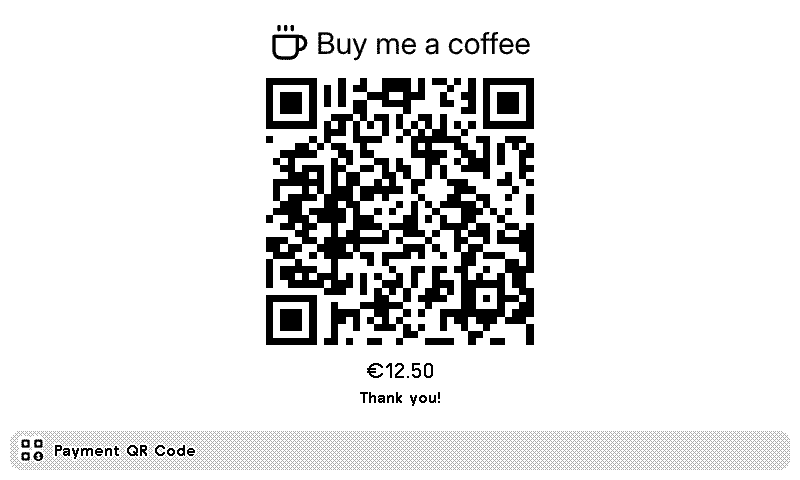
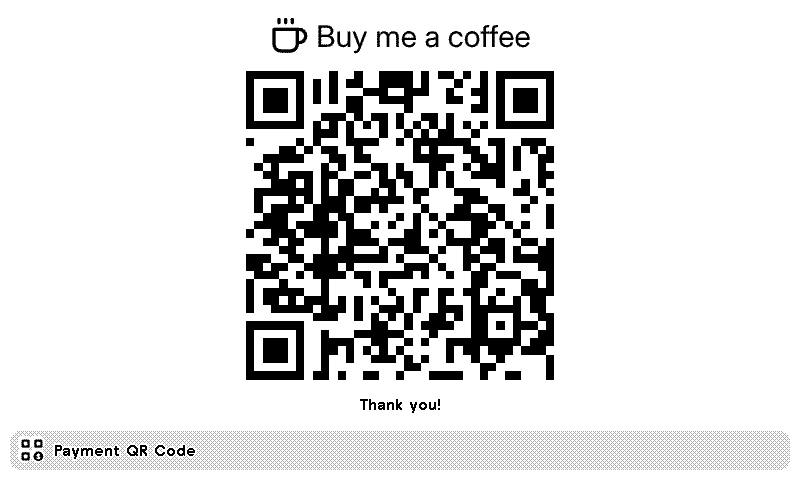
No default caption: only what is typed shows under the code
The amount line (and its English fallback in the editor preview) could not
be removed without typing text of your own. The caption is now empty unless
set; the translations and money formats it needed are gone.

Claude-Session: https://claude.ai/code/session_015KWCEBPpm133rR4g2PPK7e

Changed region(s): [[0.2812, 0.0312, 0.7188, 0.875]]

diff --git a/test/trmnl/plugin.spec.js b/test/trmnl/plugin.spec.js
@@ -156,8 +156,9 @@ for (const s of matrix({ device: ['og_plus', 'v2'], view: ['full', 'quadrant'], 
   });
 }
 test('color panel: red accent on the caption', async ({ trmnl }) => {
-  const screen = await trmnl.render({ device: 'og_bwry', fields: BASE });
-  await checkScreen(screen, { content: BASE, view: 'full', payload: JANE });
+  const content = { ...BASE, caption: '€12.50' };
+  const screen = await trmnl.render({ device: 'og_bwry', fields: content });
+  await checkScreen(screen, { content, view: 'full', payload: JANE });
   await expect(screen.locator('[data-accent^="bg--"]')).toHaveClass(/bg--red/);
 });
 test('classic fonts', async ({ trmnl }) => {
@@ -165,24 +166,24 @@ test('classic fonts', async ({ trmnl }) => {
   await checkScreen(screen, { content: BASE, view: 'full', payload: JANE });
 });
 
-// ---------------------------------------------------------------- payload and caption rules
+// ---------------------------------------------------------------- payload and caption rules (no caption unless typed)
 const PAYLOADS = [
-  ['amount open', { epc_amount: '' }, epc('Jane Doe', 'BE71096123456769', '', 'Coffee fund'), 'Any amount'],
-  ['amount zero is open', { epc_amount: '0' }, epc('Jane Doe', 'BE71096123456769', '', 'Coffee fund'), 'Any amount'],
-  ['amount comma', { epc_amount: '7,5' }, epc('Jane Doe', 'BE71096123456769', '7.50', 'Coffee fund'), '€7.50'],
-  ['amount not a number', { epc_amount: 'abc' }, epc('Jane Doe', 'BE71096123456769', '', 'Coffee fund'), 'Any amount'],
-  ['big amount', { epc_amount: '1234.5' }, epc('Jane Doe', 'BE71096123456769', '1234.50', 'Coffee fund'), '€1,234.50'],
-  ['iban cleanup', { epc_iban: 'be71 0961 2345 6769 ' }, JANE, '€12.50'],
-  ['name limit', { epc_name: 'N'.repeat(90) }, epc('N'.repeat(70), 'BE71096123456769', '12.50', 'Coffee fund'), '€12.50'],
-  ['reference limit', { epc_reference: 'R'.repeat(200) }, epc('Jane Doe', 'BE71096123456769', '12.50', 'R'.repeat(140)), '€12.50'],
+  ['amount open', { epc_amount: '' }, epc('Jane Doe', 'BE71096123456769', '', 'Coffee fund'), null],
+  ['amount zero is open', { epc_amount: '0' }, epc('Jane Doe', 'BE71096123456769', '', 'Coffee fund'), null],
+  ['amount comma', { epc_amount: '7,5' }, epc('Jane Doe', 'BE71096123456769', '7.50', 'Coffee fund'), null],
+  ['amount not a number', { epc_amount: 'abc' }, epc('Jane Doe', 'BE71096123456769', '', 'Coffee fund'), null],
+  ['big amount', { epc_amount: '1234.5' }, epc('Jane Doe', 'BE71096123456769', '1234.50', 'Coffee fund'), null],
+  ['iban cleanup', { epc_iban: 'be71 0961 2345 6769 ' }, JANE, null],
+  ['name limit', { epc_name: 'N'.repeat(90) }, epc('N'.repeat(70), 'BE71096123456769', '12.50', 'Coffee fund'), null],
+  ['reference limit', { epc_reference: 'R'.repeat(200) }, epc('Jane Doe', 'BE71096123456769', '12.50', 'R'.repeat(140)), null],
   ['own caption', { caption: 'Scan to pay' }, JANE, 'Scan to pay'],
   ['link', { payment_type: 'text', qr_text: ' https://paypal.me/jane/5 ' }, 'https://paypal.me/jane/5', null],
   ['bancontact fixed amount', { payment_type: 'bancontact', bc_profile_id: '5bb37284e35e2b29e363df22', epc_amount: '2.40', epc_reference: 'Espresso', title: 'Northbean Coffee' },
-    'https://pay.bancontact.net/t/1/5bb37284e35e2b29e363df22?D=Northbean%20Coffee&A=240&R=Espresso', 'Pay €2.40 with Bancontact'],
+    'https://pay.bancontact.net/t/1/5bb37284e35e2b29e363df22?D=Northbean%20Coffee&A=240&R=Espresso', null],
   ['bancontact open amount', { payment_type: 'bancontact', bc_profile_id: '5bb37284e35e2b29e363df22', epc_amount: '', epc_reference: '', title: '' },
-    'https://pay.bancontact.net/t/1/5bb37284e35e2b29e363df22', 'Pay with Bancontact'],
+    'https://pay.bancontact.net/t/1/5bb37284e35e2b29e363df22', null],
   ['bancontact encodes and caps D and R', { payment_type: 'bancontact', bc_profile_id: 'abc123', epc_amount: '0', epc_reference: 'Invoice #12 & co', title: 'Café Brussel: the coffee corner on the first floor' },
-    'https://pay.bancontact.net/t/1/abc123?D=Caf%C3%A9%20Brussel%3A%20the%20coffee%20corner%20on&R=Invoice%20%2312%20%26%20co', 'Pay with Bancontact'],
+    'https://pay.bancontact.net/t/1/abc123?D=Caf%C3%A9%20Brussel%3A%20the%20coffee%20corner%20on&R=Invoice%20%2312%20%26%20co', null],
 ];
 for (const [name, fields, payload, caption] of PAYLOADS) {
   test(`payload · ${name}`, async ({ trmnl }) => {
@@ -203,15 +204,10 @@ for (const [name, fields] of [['no IBAN', { epc_iban: '' }], ['no name', { epc_n
 }
 
 // ---------------------------------------------------------------- the account language
-const LOCALES = [
-  ['nl', { epc_amount: '1234.5' }, '€ 1.234,50'],
-  ['fr', { epc_amount: '' }, 'Montant libre'],
-  ['de-DE', { payment_type: 'bancontact', bc_profile_id: 'abc123', epc_amount: '3', epc_reference: '', title: '' }, '3,00 € mit Bancontact bezahlen'],
-];
-for (const [locale, fields, caption] of LOCALES) {
+for (const [locale, text] of [['fr', 'Complétez les données de paiement dans les paramètres du plugin'], ['de-DE', 'Zahlungsdaten in den Plugin-Einstellungen eintragen']]) {
   test(`language · ${locale}`, async ({ trmnl }) => {
-    const screen = await trmnl.render({ locale, fields: { ...BASE, ...fields } });
-    await expect(screen.locator('[data-accent^="bg--"]')).toHaveText(caption);
+    const screen = await trmnl.render({ locale, fields: { ...BASE, epc_iban: '' } });
+    await expect(screen).toShowText(text);
   });
 }
 test('language · Dutch message when nothing is set', async ({ trmnl }) => {

diff --git a/docs/index.html b/docs/index.html
@@ -170,7 +170,7 @@
         <div class="card-body">
           <div class="row">
             <div><label for="title">Title</label><input id="title"></div>
-            <div><label for="caption">QR caption</label><input id="caption" placeholder="Defaults to the amount"></div>
+            <div><label for="caption">QR caption</label><input id="caption" placeholder="Optional, like the amount"></div>
           </div>
           <div class="md-head">
             <label for="body">Text <small>markdown</small></label>

diff --git a/README.md b/README.md
@@ -6,7 +6,7 @@ Show a scannable payment QR code with your own text on a TRMNL.
 
 - **SEPA transfer (EPC QR)**, scanned by most European banking apps, with a fixed amount or one the payer chooses
 - **Bancontact** for merchants with a Bancontact Pro (formerly Payconiq) payment profile: the plugin builds the `pay.bancontact.net` Top Up link from the profile ID, amount, title and reference, no API needed. Use a Top Up profile so one code can be paid many times; receipt and invoice profiles give single-use codes. No Bancontact logo is bundled: add the official mark through Image URL if your contract allows it
-- The plugin's own words (default caption, amounts, messages) follow the TRMNL account language: English, Dutch, French and German, with amounts written the local way (`€ 2,40`, `2,40 €`)
+- The plugin's own messages follow the TRMNL account language: English, Dutch, French and German. The caption under the code shows only what you type
 - **Any link or text**: PayPal.me, Revolut, Payconiq, Stripe, Bitcoin, ...
 - **No layout settings**: with text the QR sits beside it (stacked on portrait screens and tall mashup slots); without text title, QR and footer are centered
 - Markdown text that shrinks to fit, with bullets and price rows: `- Espresso | €2.40` puts the price on the right with a dotted leader
@@ -51,7 +51,7 @@ Keys: `payment_type` (`epc`/`bancontact`/`text`), `epc_name`, `epc_iban`, `bc_pr
 
 ## How it is built
 
-Everything happens in `plugin/src/shared.liquid`, which TRMNL runs on every render: it picks the data source, builds the EPC payload, captions, price rows and title bar, then chooses the layout for the view. A serverless transform was tried and dropped: on a webhook plugin it only runs when webhook data arrives, so settings changes never reached the screen.
+Everything happens in `plugin/src/shared.liquid`, which TRMNL runs on every render: it picks the data source, builds the EPC payload, price rows and title bar, then chooses the layout for the view. A serverless transform was tried and dropped: on a webhook plugin it only runs when webhook data arrives, so settings changes never reached the screen.
 
 ## Development
 
